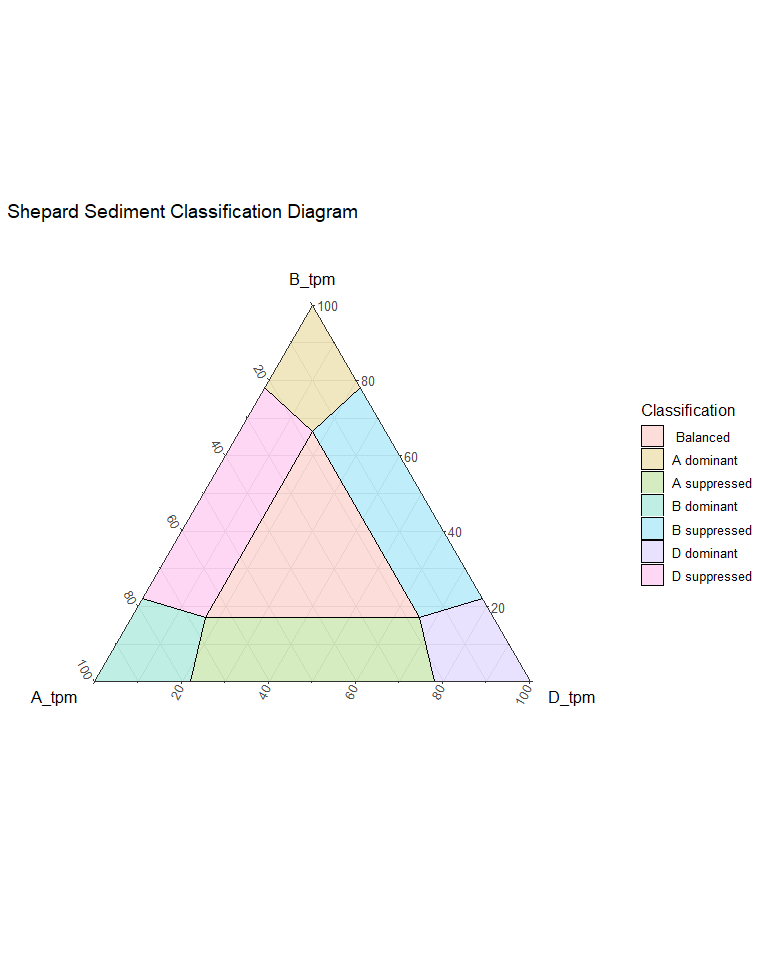
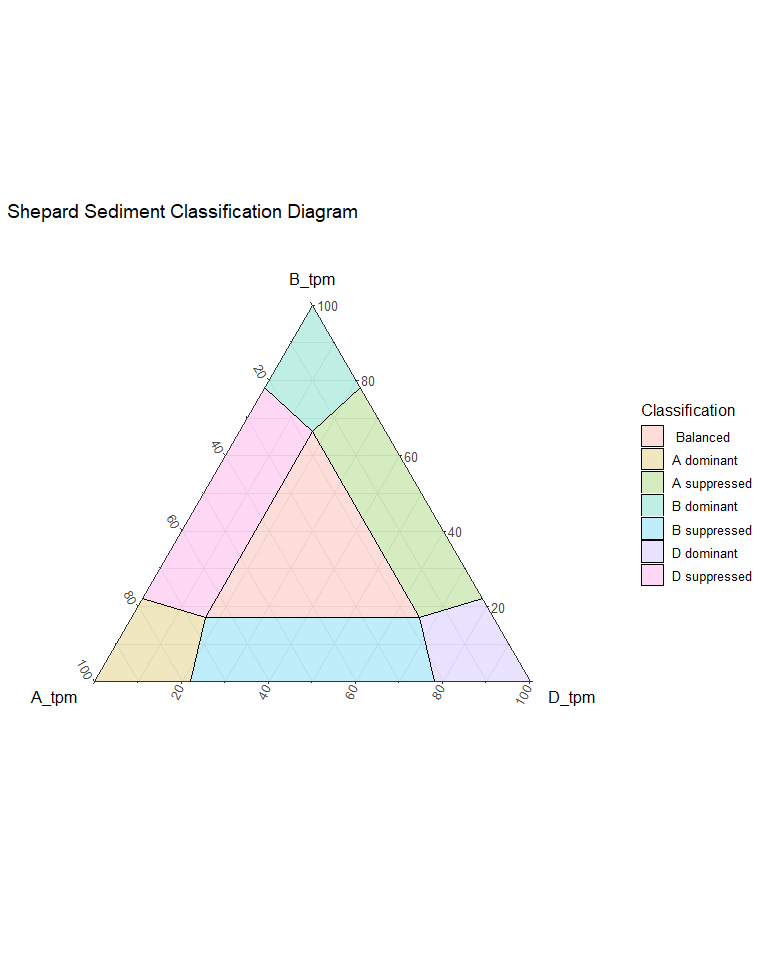
Corrected Incorrect Zone Colours

Changed region(s): [[0.125, 0.3125, 0.625, 0.7188]]

diff --git a/Wheat-Rubiscosome-Expression-Balance-Report.md b/Wheat-Rubiscosome-Expression-Balance-Report.md
@@ -310,18 +310,18 @@ base <- ggtern(data=points,aes(A_tpm,B_tpm,D_tpm)) +
 
 #Give each Polygon a number
 polygon.labels <- data.frame(
-  Label=c("B dominant","",
+  Label=c("A dominant","",
           " Balanced",
           "E",
           "F",
           "G",
           "H",
           "I",
-          "A dominant",
+          "B dominant",
           "K",
           "L",
           "D dominant",
-          "A suppressed",
+          "B suppressed",
           "O",
           "P",
           "Q",
@@ -329,7 +329,7 @@ polygon.labels <- data.frame(
           "S",
           "T",
           "U",
-          "B suppressed",
+          "A suppressed",
           "W",
           "X",
           "Y",
